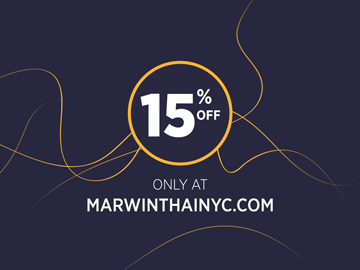
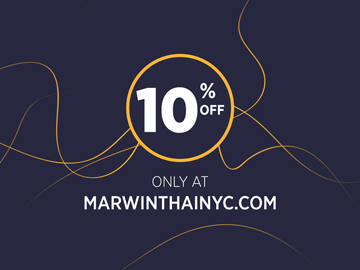
updated modal

diff --git a/index.html b/index.html
@@ -99,7 +99,7 @@
       </footer>
       <!-- Modal HTML embedded directly into document -->
         <div id="modal-popup" class="modal">
-          <!-- <img src="images/marwinthai-modal-image.png"> -->
+          <img src="images/marwinthai-modal-image.png" alt="">
           <p><span class="capitalize">Get 10% Off every online order at</span><span class="capitalize website"> marwinthainyc.com</span></p>
           <p><em>Lunch special and Marwin Prix Fixe are not included.</em></p>
           <a href="#close-modal" class="modal-button" rel="modal:close">Close Popup</a>
